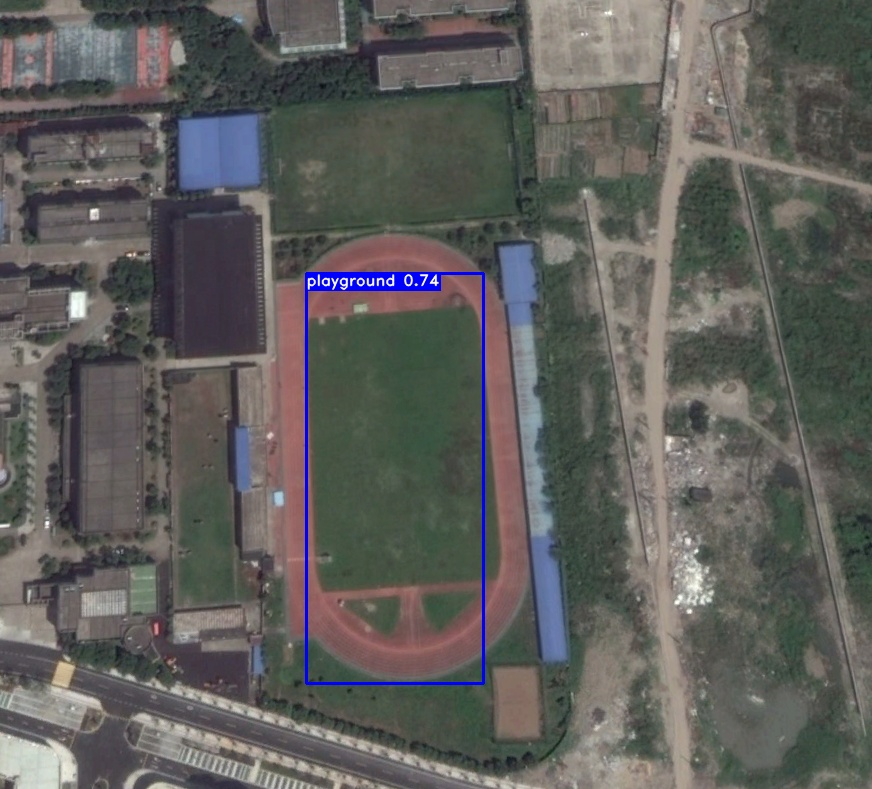
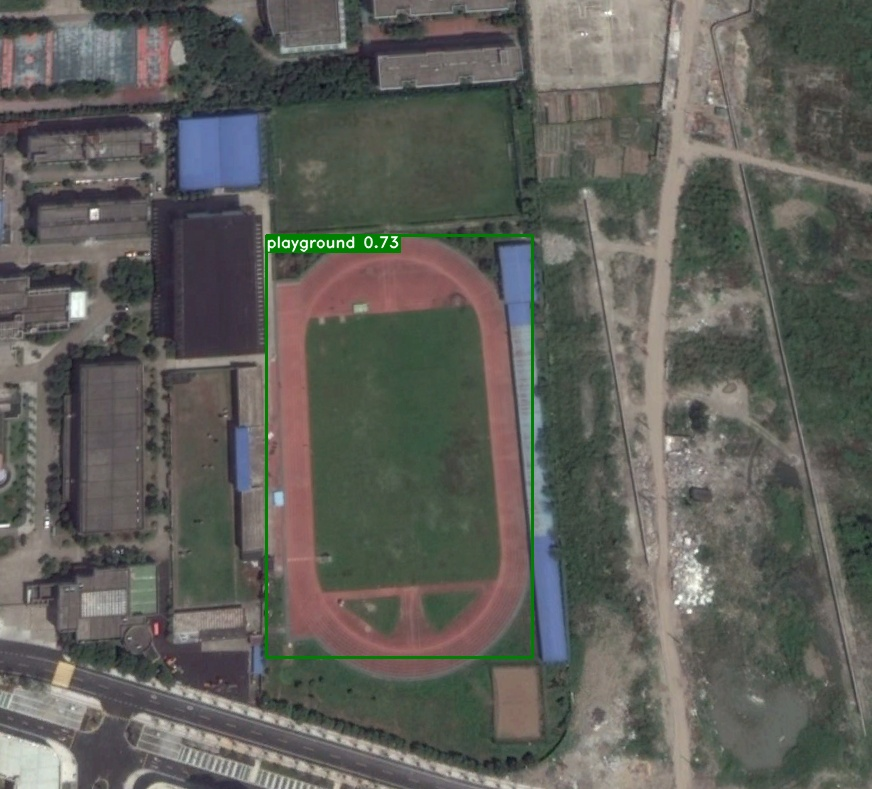
7.7 改了一点

Changed region(s): [[0.2787, 0.2738, 0.6193, 0.8821]]

diff --git a/src/main/java/com/example/demo/web/controller/AIController.java b/src/main/java/com/example/demo/web/controller/AIController.java
@@ -1,7 +1,10 @@
 package com.example.demo.web.controller;
 
+import cn.hutool.aop.interceptor.SpringCglibInterceptor;
+import com.alibaba.fastjson.JSONObject;
 import com.example.demo.common.JsonResponse;
 import com.example.demo.common.QiniuCloudUtil;
+import com.example.demo.entity.ODResult;
 import com.example.demo.service.RecordService;
 import com.example.demo.service.impl.AIService;
 import com.example.demo.service.FileService;
@@ -10,12 +13,17 @@ import lombok.extern.slf4j.Slf4j;
 import org.apache.commons.io.IOUtils;
 import org.springframework.beans.factory.annotation.Autowired;
 import org.springframework.beans.factory.annotation.Value;
+import org.springframework.core.ParameterizedTypeReference;
+import org.springframework.http.HttpEntity;
 import org.springframework.http.HttpMethod;
+import org.springframework.http.ResponseEntity;
+import org.springframework.util.LinkedMultiValueMap;
+import org.springframework.util.MultiValueMap;
 import org.springframework.web.bind.annotation.*;
 import org.springframework.web.client.RestTemplate;
 
 import java.io.*;
-import java.util.UUID;
+import java.util.*;
 
 /**
  * @author Peter Hai
@@ -98,7 +106,6 @@ public class AIController {
     public JsonResponse objectDetection(@RequestParam("file") String file,
                                         @RequestParam(value = "userId", required = false) Integer userId) throws Exception {
         JsonResponse result = new JsonResponse();
-        System.out.println(file);
         //如果为测试环境，返回示例图片
         if (runtimeEnvironment.equals("test")) {
             Thread.sleep((int) (1000 + Math.random() * (1000)));
@@ -114,16 +121,40 @@ public class AIController {
         String filename = split[split.length - 1];
         String filePath = fileService.download(file, "objectDetection");
         String result_path = System.getProperty("user.dir") + "/static/objectDetection/results";
+        //设置请求头
+        MultiValueMap<String, String> headers = new LinkedMultiValueMap<>();
+        List<String> list = new ArrayList<>();
+        list.add("application/json;charset=UTF-8");
+        headers.put("Content-Type", list);
         //调用python后端
         String python_url = "http://127.0.0.1:8082/objectDetection?file=" + filePath + "&result_path=" + result_path;
         RestTemplate restTemplate = new RestTemplate();
-        restTemplate.exchange(python_url, HttpMethod.POST, null, String.class);
+        ResponseEntity<List<ODResult>> entity = restTemplate.exchange(python_url, HttpMethod.POST, new HttpEntity<>(headers), new ParameterizedTypeReference<List<ODResult>>() {});
+        //解析返回数组
+        List<ODResult> bodyList = entity.getBody();
+        for (int i = 0; i < bodyList.size(); i++) {
+            bodyList.get(i).setId(i);
+        }
+        Map<String, List<ODResult>> map = new LinkedHashMap<>();
+        map.put("overpass", new ArrayList<>());
+        map.put("oiltank", new ArrayList<>());
+        map.put("playground", new ArrayList<>());
+        map.put("aircraft", new ArrayList<>());
+        for (ODResult body : bodyList) {
+            List<ODResult> orDefault = map.getOrDefault(body.getCategory(), new ArrayList<>());
+            orDefault.add(body);
+            map.put(body.getCategory(), orDefault);
+        }
         //结果上传至云端，返回图片链接
         byte[] bytes = IOUtils.toByteArray(new FileInputStream(result_path + "\\visualize_" + filename));
         String url = QiniuCloudUtil.put64image(bytes, "visualize_" + filename);
         result.setCode(200);
         result.setMessage("预测成功");
-        result.setData(url);
+        //设置返回结果
+        JSONObject jsonObject = new JSONObject();
+        jsonObject.put("url", url);
+        jsonObject.put("result", map);
+        result.setData(jsonObject);
         //保存预测记录
         if (userId != null && !userId.equals("")) recordService.saveOne(userId, file, null, url, "objectDetection");
         return result;
@@ -142,8 +173,6 @@ public class AIController {
     @RequestMapping(value = "/terrainClassification", method = RequestMethod.POST)
     public JsonResponse terrainClassification(@RequestParam("file") String file,
                                               @RequestParam(value = "userId", required = false) Integer userId) throws Exception {
-        System.out.println(file);
-        System.out.println(userId);
         JsonResponse result = new JsonResponse();
         //如果为测试环境，返回示例图片
         //Assert.isTrue(temp.getUserId().equals(ShiroUtil.getProfile().getId()),"没有权限编辑");

diff --git a/src/main/java/com/example/demo/web/controller/SendCodeController.java b/src/main/java/com/example/demo/web/controller/SendCodeController.java
@@ -46,13 +46,13 @@ public class SendCodeController {
                 Vcode = code;
                 SmsParams smsParams = new SmsParams(po, code);
                 TxCloudSmsUtil send = new TxCloudSmsUtil();
-                //send.sendSms(smsParams);
+                send.sendSms(smsParams);
                 String codeKey = "VerifyCode"+memPhone+":code";
                 System.out.println(code);
                 Jedis jedis = new Jedis("127.0.0.1",6379);
                 jedis.setex(codeKey,300,code);
                 jedis.close();
-                return JsonResponse.success("发送成功！" + code);
+                return JsonResponse.success("发送成功！");
             }
         }
         return JsonResponse.failure("手机号未注册！");
@@ -76,13 +76,13 @@ public class SendCodeController {
         Vcode = code;
         SmsParams smsParams = new SmsParams(po, code);
         TxCloudSmsUtil send = new TxCloudSmsUtil();
-        //send.sendSms(smsParams);
+        send.sendSms(smsParams);
         String codeKey = "VerifyCode"+memPhone+":code";
         System.out.println(code);
         Jedis jedis = new Jedis("127.0.0.1",6379);
         jedis.setex(codeKey,300,code);
         jedis.close();
-        return JsonResponse.success("发送成功！" + code);
+        return JsonResponse.success("发送成功！");
 
     }
 

diff --git a/python/test/objectDetection/test.py b/python/test/objectDetection/test.py
@@ -4,7 +4,7 @@ from skimage.io import imsave
 from paddlers.tasks.utils.visualize import visualize_detection
 import numpy as np
 
-file_path = "img.jpg"
+file_path = "aircraft_233.jpg"
 save_path = "./result"
 # file_path = "../example/od/uploads/"
 # save_path = "../example/od/results"
@@ -18,10 +18,11 @@ print(paddle.device.get_device())
 #     result = predictor.predict(img_file=file_path + str(i) + ".jpg")
 #     visualize_detection(image=file_path + str(i) + ".jpg", result=result, threshold=0.5, save_dir=save_path, color=np.asarray([[255, 0, 0]]))
 
-color = np.asarray([[255, 0, 255], [0, 255, 0], [0, 255, 255], [0, 0, 255]], dtype=np.uint8)
+# color = np.asarray([[255, 0, 255], [0, 255, 0], [0, 255, 255], [0, 0, 255]], dtype=np.uint8)
 result = predictor.predict(img_file=file_path)
+visualize_detection(image=file_path, result=result, threshold=0.5, save_dir=save_path)
+result = [n for n in result if n['score'] >= 0.5]
 print(result)
-visualize_detection(image=file_path, result=result, threshold=0.5, save_dir=save_path, color=color)
 
 # print(result)
 # imsave(save_path, result, check_contrast=False)

diff --git a/python/main.py b/python/main.py
@@ -1,4 +1,4 @@
-from flask import Flask, request
+from flask import Flask, request, jsonify
 import paddlers as pdrs
 from skimage.io import imsave
 import cv2
@@ -110,11 +110,15 @@ def object_detection():
     # 获取图片地址
     file = request.args["file"]
     result_path = request.args["result_path"]
+    # 定义阈值
+    threshold = 0.5
     # 开始预测
     result = od_predictor.predict(img_file=file)
     # 保存结果
-    visualize_detection(image=file, result=result, threshold=0.5, save_dir=result_path)
-    return "预测成功"
+    visualize_detection(image=file, result=result, threshold=threshold, save_dir=result_path)
+    # 返沪预测结果列表
+    result = [n for n in result if n['score'] >= threshold]
+    return jsonify(result)
 
 
 # 图片叠加

diff --git a/src/main/java/com/example/demo/entity/ODResult.java b/src/main/java/com/example/demo/entity/ODResult.java
@@ -1,0 +1,17 @@
+package com.example.demo.entity;
+
+import lombok.Data;
+
+@Data
+public class ODResult {
+    private Integer id;
+
+    private Integer category_id;
+
+    private String category;
+
+    private Double[] bbox;
+
+    private Double score;
+
+}
